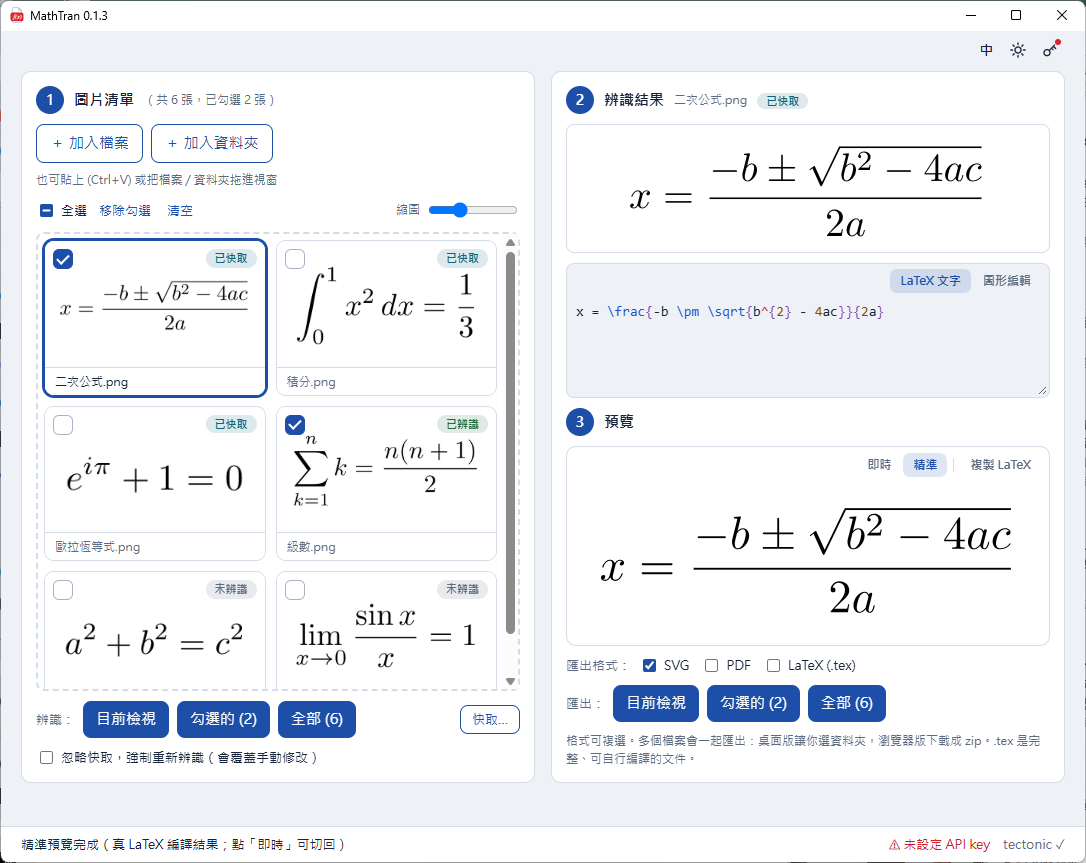
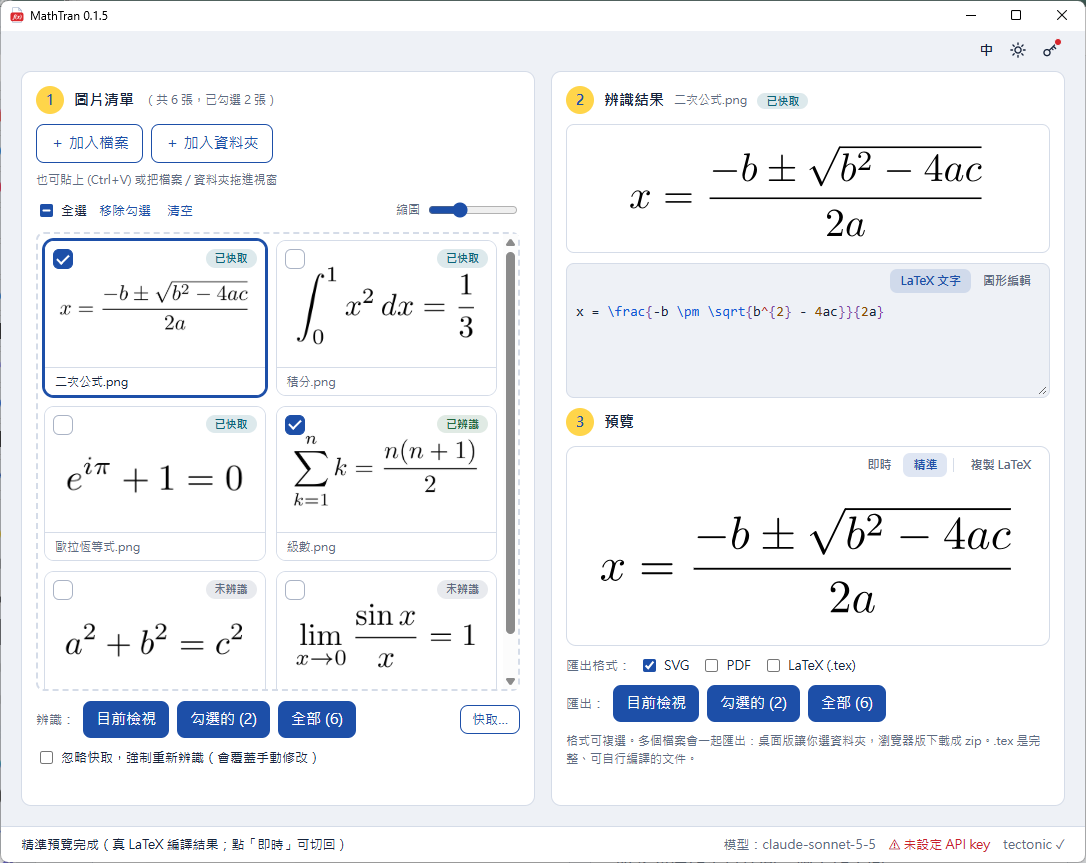
Release 0.1.6
- Light theme: yellow step-number circles (blue digits); dark theme: neon-green circles and an orange reminder dot
- Empty original-image area uses the background color; the thumbnail slider follows the theme color

diff --git a/src/mathtran/web/index.html b/src/mathtran/web/index.html
@@ -18,6 +18,8 @@
           --bg:#eef1f6; --card:#ffffff; --fg:#16233a; --muted:#5d6b82; --line:#d5dce8;
           --accent:#1d4fa8; --accent-solid:#1d4fa8; --on-accent:#ffffff;
           --err:#c8202b; --err-solid:#d7262c; --ok:#216a3f; --cache:#0b6479; --edit:#8a5600; --sel:#e3ebf8;
+          /* 步驟編號圓圈：RX-78-2 的黃（黃底藍字）；深色是 EVA 初號機的螢光綠。--dot：鑰匙上「尚未設定」的提醒點 */
+          --step-bg:#ffd54a; --step-fg:#1d4fa8; --dot:var(--err-solid);
           /* LaTeX 語法標色（對 --bg 的對比都 ≥ 4.5:1） */
           --tk-cmd:#1558d6; --tk-text:#0b6b3a; --tk-op:#b3261e; --tk-num:#8a4b00; --tk-brace:#7b3fa6; --tk-cmt:#5d6b82; }
   @media (prefers-color-scheme: dark) {
@@ -25,6 +27,7 @@
           --bg:#0c0916; --card:#161026; --fg:#ebe6f7; --muted:#9b90b8; --line:#2c2245;
           --accent:#b794ff; --accent-solid:#7a47e0; --on-accent:#ffffff;
           --err:#ff6b78; --err-solid:#d92d3d; --ok:#5bff7e; --cache:#4fe0c0; --edit:#ffa63d; --sel:#251a42;
+          --step-bg:#5bff7e; --step-fg:#0c0916; --dot:#ffa63d;
           --tk-cmd:#6fa8ff; --tk-text:#6ee7a0; --tk-op:#ff8a80; --tk-num:#ffc27a; --tk-brace:#e0a8ff; --tk-cmt:#9b90b8; }
   }
   :root[data-theme="light"] { color-scheme: light; }
@@ -32,6 +35,7 @@
           --bg:#0c0916; --card:#161026; --fg:#ebe6f7; --muted:#9b90b8; --line:#2c2245;
           --accent:#b794ff; --accent-solid:#7a47e0; --on-accent:#ffffff;
           --err:#ff6b78; --err-solid:#d92d3d; --ok:#5bff7e; --cache:#4fe0c0; --edit:#ffa63d; --sel:#251a42;
+          --step-bg:#5bff7e; --step-fg:#0c0916; --dot:#ffa63d;
           --tk-cmd:#6fa8ff; --tk-text:#6ee7a0; --tk-op:#ff8a80; --tk-num:#ffc27a; --tk-brace:#e0a8ff; --tk-cmt:#9b90b8; }
 
   * { box-sizing:border-box }
@@ -43,7 +47,7 @@
   .tb:hover { background:color-mix(in srgb, var(--accent) 14%, transparent) }
   .tb svg { width:18px; height:18px; display:block }
   .tb .tbtxt { font-size:14px; font-weight:800; letter-spacing:-.3px }
-  .tb .dot { position:absolute; top:3px; right:3px; width:8px; height:8px; border-radius:50%; background:var(--err-solid); border:1.5px solid var(--bg) }
+  .tb .dot { position:absolute; top:3px; right:3px; width:8px; height:8px; border-radius:50%; background:var(--dot); border:1.5px solid var(--bg) }
   main { display:grid; grid-template-columns:minmax(0,1fr) minmax(0,1fr); gap:16px; padding:6px 20px 16px }
   @media (max-width:800px) { main { grid-template-columns:1fr } }
   /* 寬螢幕：整個視窗不捲動，左右兩個窗格各自捲動（右邊內容多時用自己的捲軸）；窄螢幕上下堆疊時才讓整頁捲動 */
@@ -58,8 +62,8 @@
   section { background:var(--card); border:1px solid var(--line); border-radius:10px; padding:14px; display:flex; flex-direction:column; gap:10px; min-width:0 }
   h2 { font-size:15px; margin:0; color:var(--fg); font-weight:700; display:flex; gap:10px; align-items:center; flex-wrap:wrap }
   /* 步驟編號：漸層圓形徽章 */
-  .step { flex:none; width:28px; height:28px; border-radius:50%; display:inline-grid; place-items:center; color:#fff;
-          font-size:14px; font-weight:800; line-height:1; background:var(--accent-solid) }
+  .step { flex:none; width:28px; height:28px; border-radius:50%; display:inline-grid; place-items:center; color:var(--step-fg);
+          font-size:14px; font-weight:800; line-height:1; background:var(--step-bg) }
   h2 .hint { font-weight:400 }
   .row { display:flex; gap:8px; flex-wrap:wrap; align-items:center }
   .row.between { justify-content:space-between }
@@ -75,7 +79,7 @@
   button:disabled { opacity:.45; cursor:not-allowed }
   button[hidden] { display:none }
   label.chk { display:inline-flex; gap:5px; align-items:center; font-size:13px; cursor:pointer }
-  input[type=checkbox] { accent-color:var(--accent-solid) }
+  input[type=checkbox], input[type=range] { accent-color:var(--accent-solid) }   /* 勾選框、滑桿用主題的實心色（淺色＝鋼彈藍、深色＝EVA 紫） */
   /* 圖片清單 */
   #list { border:2px dashed var(--line); border-radius:8px; min-height:240px; max-height:calc(100vh - 372px); overflow:auto; outline:none; padding:6px }
   .zoom { display:inline-flex; gap:6px; align-items:center; margin-left:auto; font-size:12px; color:var(--muted) }
@@ -111,7 +115,8 @@
   /* 右側 */
   #orig { min-height:60px; max-height:150px; display:flex; align-items:center; justify-content:center; background:#fff; border:1px solid var(--line); border-radius:8px; overflow:hidden }
   #orig img { max-width:100%; max-height:148px; object-fit:contain }
-  #orig:empty::before { content:attr(data-empty); color:#8c94a8; font-size:13px }
+  #orig:empty { background:var(--bg) }   /* 還沒有圖片時不要一塊白色（深色配色下很突兀）；有圖片時才是白底 */
+  #orig:empty::before { content:attr(data-empty); color:var(--muted); font-size:13px }
   textarea { width:100%; min-height:100px; font:14px/1.4 ui-monospace,Consolas,monospace; background:var(--bg); color:var(--fg); border:1px solid var(--line); border-radius:8px; padding:8px; resize:vertical }
   /* LaTeX 編輯區：透明的 textarea 疊在標色層（#hl）上；兩者的字型、邊框、內距、換行、捲軸槽完全一致，字才會對齊 */
   /* 編輯區的外框（#edBox）：右上角的「LaTeX 文字 / 圖形編輯」切換鈕在框內，和預覽區的按鈕一樣；裡面的編輯器自己不畫框線 */

diff --git a/CHANGELOG.md b/CHANGELOG.md
@@ -5,6 +5,24 @@ Format follows [Keep a Changelog](https://keepachangelog.com/); versions follow 
 
 ## [Unreleased]
 
+## [0.1.6] - 2026-11-27
+
+配色調整：淺色多了黃色點綴，深色的初始畫面也有 EVA 的主要配色。 / Theme polish: the light theme gets yellow accents, and the dark theme's first screen shows Evangelion's main colors.
+
+### 繁體中文
+
+- 淺色配色（鋼彈 RX-78-2）**增加黃色點綴**：只用在步驟編號的圓圈（黃底藍字）；全部是純色平面，沒有立體效果
+- 深色配色（福音戰士）的初始畫面**多了初號機的配色**：步驟編號的圓圈改成螢光綠底深色字、鑰匙上「尚未設定」的提醒點改成橘色，不再只有紫色
+- 還沒有圖片時，原圖區改用背景色，不再是一塊突兀的白色（深色配色下特別明顯）
+- 縮圖大小滑桿的進度與手把改用主題的主色（淺色＝鋼彈藍、深色＝EVA 紫），不再是瀏覽器預設的藍色
+
+### English
+
+- The light theme (Gundam RX-78-2) gets **yellow accents**: used only for the step-number circles (blue on yellow); everything stays flat, with no 3D effects
+- The dark theme (Evangelion) shows **more of Unit-01's colors on the first screen**: the step-number circles are now neon green with dark digits and the "not set yet" dot on the key is orange, instead of purple only
+- With no image yet, the original-image area uses the background color instead of a stark white block (most noticeable in the dark theme)
+- The thumbnail-size slider's progress and handle now use the theme's main color (Gundam blue in the light theme, EVA purple in the dark one) instead of the browser's default blue
+
 ## [0.1.5] - 2026-11-27
 
 圖形編輯器的一輪修正，並可以選擇辨識用的模型。 / A round of visual-editor fixes, and you can now choose the recognition model.
@@ -111,6 +129,7 @@ Format follows [Keep a Changelog](https://keepachangelog.com/); versions follow 
 - **Three ways to use it**: desktop window, browser, command line (`mathtran ocr / render / convert / cache / config / serve / gui`)
 - **Installation**: Windows ZIP, macOS DMG (Tectonic included, nothing else to install), or `uv tool install mathtran`
 
+[0.1.6]: https://github.com/codemee/mathtran/releases/tag/v0.1.6
 [0.1.5]: https://github.com/codemee/mathtran/releases/tag/v0.1.5
 [0.1.4]: https://github.com/codemee/mathtran/releases/tag/v0.1.4
 [0.1.3]: https://github.com/codemee/mathtran/releases/tag/v0.1.3

diff --git a/README.en.md b/README.en.md
@@ -106,8 +106,8 @@ Hovering a button shows its current state, and the status bar confirms the chang
 
 | Theme | Inspired by | Colors |
 |---|---|---|
-| Light | Gundam RX-78-2 | White body as the base, Gundam blue as the main color, with red and yellow accents |
-| Dark | Neon Genesis Evangelion | Deep purple-black base, Unit-01 purple as the main color, with neon-green and orange accents |
+| Light | Gundam RX-78-2 | White body as the base, Gundam blue as the main color, with red and yellow accents (yellow is used only for the step-number circles: blue on yellow) |
+| Dark | Neon Genesis Evangelion | Deep purple-black base, Unit-01 purple as the main color, with neon-green and orange accents (the step-number circles are neon green with dark digits; the "not set yet" dot on the key is orange) |
 
 Everything is drawn in flat, solid colors — there are no gradients. The text contrast of both schemes is checked (normal text is never below 4.5:1).
 

diff --git a/README.md b/README.md
@@ -106,8 +106,8 @@
 
 | 配色 | 主題 | 色彩 |
 |---|---|---|
-| 淺色 | 鋼彈 RX-78-2 | 白色機身為底、鋼彈藍為主色，點綴紅與黃 |
-| 深色 | 新世紀福音戰士 | 深紫黑為底、初號機紫為主色，點綴螢光綠與橘 |
+| 淺色 | 鋼彈 RX-78-2 | 白色機身為底、鋼彈藍為主色，點綴紅與黃（黃色只用在步驟編號的圓圈：黃底藍字） |
+| 深色 | 新世紀福音戰士 | 深紫黑為底、初號機紫為主色，點綴螢光綠與橘（步驟編號的圓圈是螢光綠底深色字；鑰匙上「尚未設定」的提醒點是橘色） |
 
 畫面全部使用純色，不使用漸層。兩組配色的文字對比度都經過檢查（一般文字不低於 4.5:1）。
 
